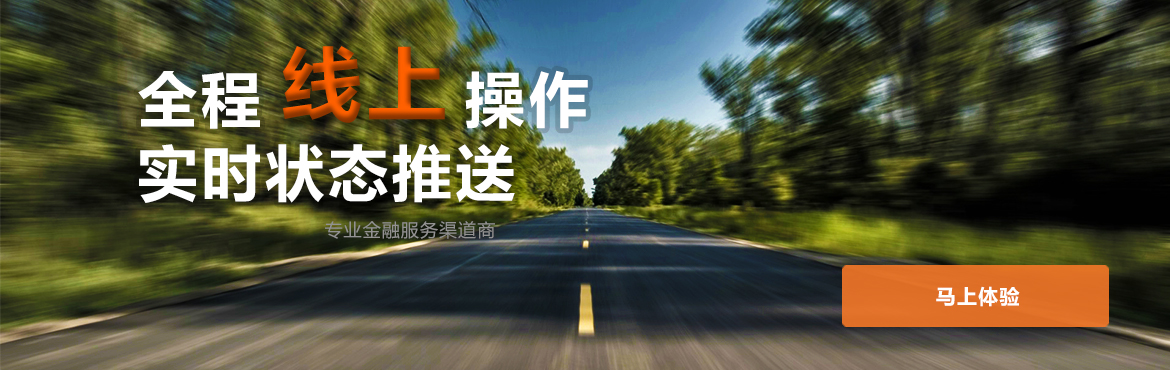
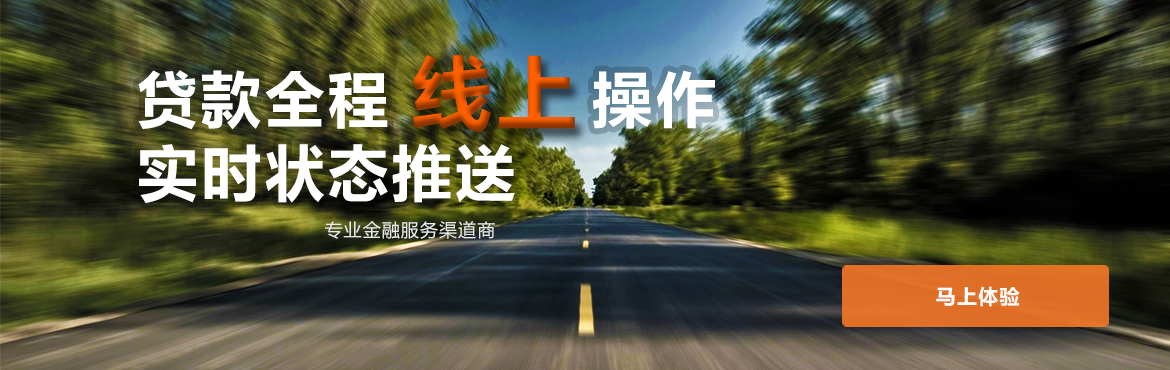
轮播图修改

Changed region(s): [[0.0923, 0.1189, 0.6154, 0.3865], [0.2769, 0.5946, 0.4308, 0.6541]]

diff --git a/transport.html b/transport.html
@@ -62,16 +62,21 @@
 				<li data-target="#carousel-example-generic" data-slide-to="0" class="active"></li>
 				<li data-target="#carousel-example-generic" data-slide-to="1" class=""></li>
 				<li data-target="#carousel-example-generic" data-slide-to="2" class=""></li>
+				<li data-target="#carousel-example-generic" data-slide-to="3" class=""></li>
+				
 			</ol>
 			<div class="carousel-inner" role="listbox">
-				<div class="item">
+				<div class="item active">
 					<img alt="轮播图" src="imgs/运力云01.jpg" data-holder-rendered="true">
 				</div>
 				<div class="item">
 					<img alt="轮播图" src="imgs/运力云02.jpg" data-holder-rendered="true">
 				</div>
-				<div class="item active">
+				<div class="item">
 					<img alt="轮播图" src="imgs/运力云03.jpg" data-holder-rendered="true">
+				</div>
+				<div class="item">
+					<img alt="轮播图" src="imgs/保理.jpg" data-holder-rendered="true">
 				</div>
 			</div>
 		</div>
